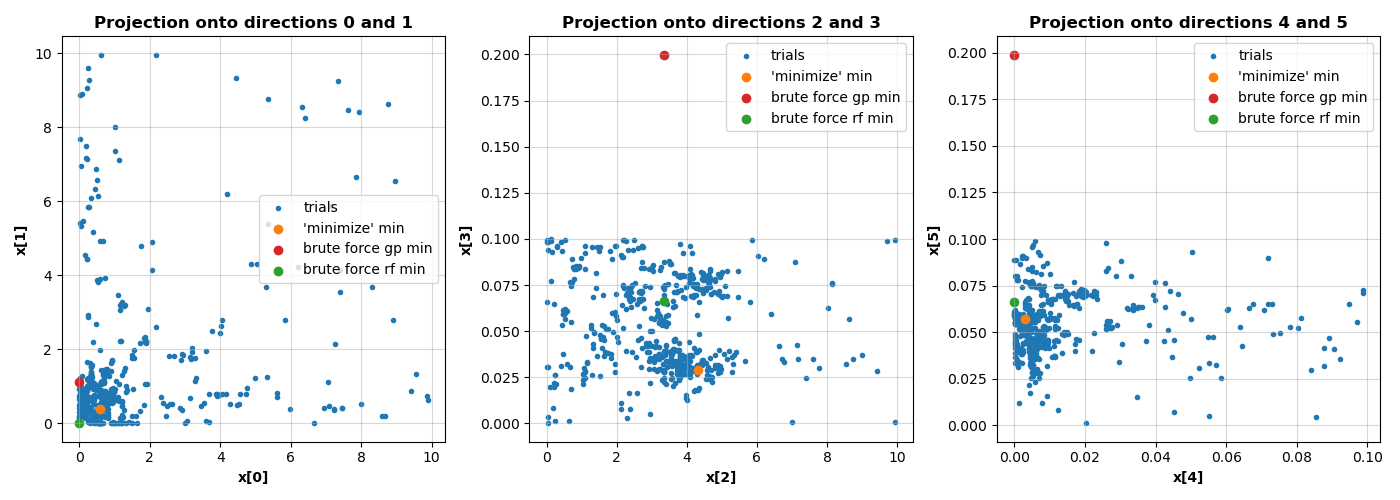
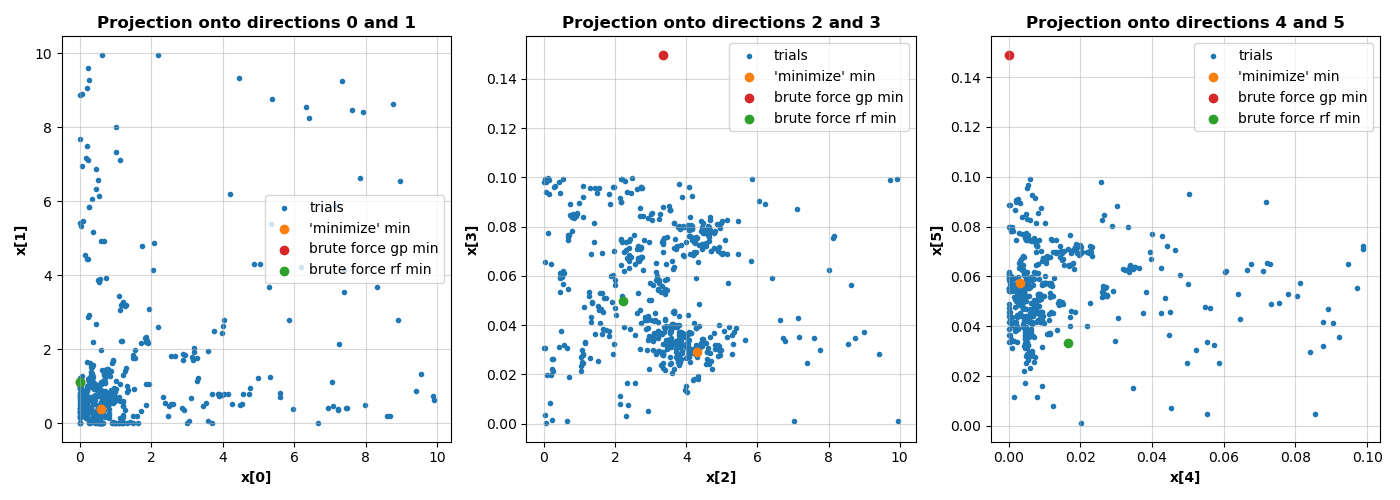
Update

diff --git a/gp_approximation.py b/gp_approximation.py
@@ -105,7 +105,7 @@ fig.savefig("images/rf_approximation.png")
 
 # Minimize the predicted values
 max_boundary = np.max(X, axis=0)
-max_boundary += np.full_like(max_boundary, 0.1)
+max_boundary += np.full_like(max_boundary, 0.05)
 #min_boundary = np.min(X, axis=0)
 min_boundary = np.zeros_like(max_boundary)
 
@@ -214,7 +214,7 @@ for i in range(d):
     
     ax3[i].plot(X_range[:, i], y_gp_pred, color="tab:red", label="prediction")
     ax3[i].axhline(brute_gp_val_min, color="tab:blue", ls="--", label="minimum value")
-    ax3[i].axvline(brute_gp_X_min, color="tab:green", ls="--", label="minimum point")
+    ax3[i].axvline(brute_gp_X_min[i], color="tab:green", ls="--", label="minimum point")
     ax3[i].fill_between(X_range[:, i], y_gp_pred - std_gp_pred, y_gp_pred + std_gp_pred,
                         color="tab:red", alpha=0.3, label="mean +/- sigma")
     ax3[i].grid(alpha=0.5)
@@ -240,7 +240,7 @@ for i in range(d):
     
     ax4[i].plot(X_range[:, i], y_rf_pred, color="tab:red", label="prediction")
     ax4[i].axhline(brute_rf_val_min, color="tab:blue", ls="--", label="minimum value")
-    ax4[i].axhline(brute_rf_X_min[i], color="tab:green", ls="--", label="minimum point")
+    ax4[i].axvline(brute_rf_X_min[i], color="tab:green", ls="--", label="minimum point")
     ax4[i].grid(alpha=0.5)
     ax4[i].set_xlabel(f"x[{i}]", fontdict={"size": 10, "weight": "bold"})
     ax4[i].set_ylabel("value", fontdict={"size": 10, "weight": "bold"})

diff --git a/.ipynb_checkpoints/gp_approximation-checkpoint.py b/.ipynb_checkpoints/gp_approximation-checkpoint.py
@@ -105,7 +105,7 @@ fig.savefig("images/rf_approximation.png")
 
 # Minimize the predicted values
 max_boundary = np.max(X, axis=0)
-max_boundary += np.full_like(max_boundary, 0.1)
+max_boundary += np.full_like(max_boundary, 0.05)
 #min_boundary = np.min(X, axis=0)
 min_boundary = np.zeros_like(max_boundary)
 
@@ -214,7 +214,7 @@ for i in range(d):
     
     ax3[i].plot(X_range[:, i], y_gp_pred, color="tab:red", label="prediction")
     ax3[i].axhline(brute_gp_val_min, color="tab:blue", ls="--", label="minimum value")
-    ax3[i].axvline(brute_gp_X_min, color="tab:green", ls="--", label="minimum point")
+    ax3[i].axvline(brute_gp_X_min[i], color="tab:green", ls="--", label="minimum point")
     ax3[i].fill_between(X_range[:, i], y_gp_pred - std_gp_pred, y_gp_pred + std_gp_pred,
                         color="tab:red", alpha=0.3, label="mean +/- sigma")
     ax3[i].grid(alpha=0.5)
